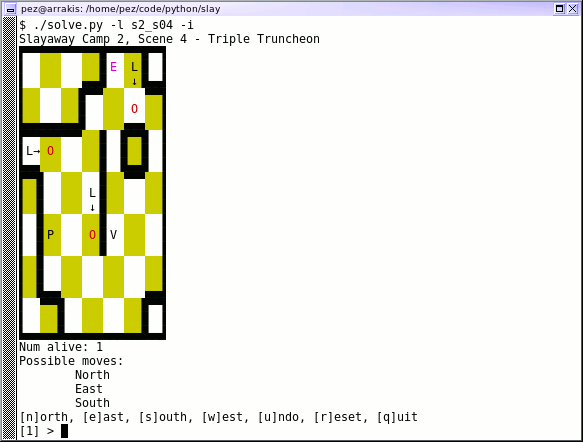
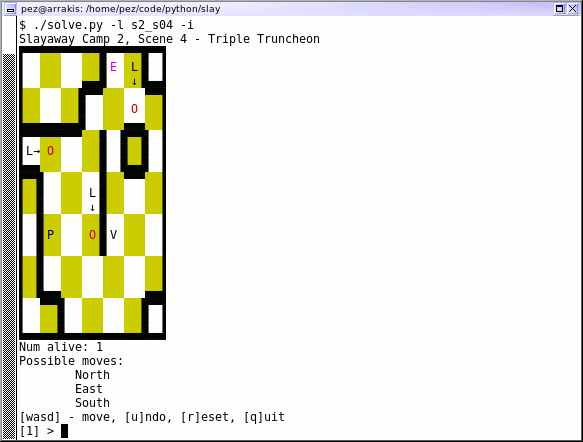
Change movement keys to wasd

Changed region(s): [[0.0309, 0.9118, 0.6175, 0.9706], [0.6484, 0.9118, 0.7101, 0.9706], [0.0, 0.0294, 0.0309, 0.1176]]

diff --git a/slaysolver/app.py b/slaysolver/app.py
@@ -124,10 +124,10 @@ DIR_T = {
     DIR_W: 'West',
 }
 DIR_CMD = {
-    'n': DIR_N,
+    'w': DIR_N,
     's': DIR_S,
-    'w': DIR_W,
-    'e': DIR_E,
+    'a': DIR_W,
+    'd': DIR_E,
 }
 def rev_dir(direction):
     return (direction+2)%4
@@ -1507,7 +1507,7 @@ class Game(object):
                 death_reason = None
 
             if full_control:
-                print('[n]orth, [e]ast, [s]outh, [w]est, [u]ndo, [r]eset, [q]uit')
+                print('[wasd] - move, [u]ndo, [r]eset, [q]uit')
             else:
                 print('[u]ndo, [r]eset, [q]uit')
             sys.stdout.write('[{}] > '.format(self.cur_steps + 1))

diff --git a/README.md b/README.md
@@ -93,8 +93,8 @@ Interactive Use
 ===============
 
 The interactive UI for this definitely takes a bit of getting used to.  Your
-available commands are just `n`, `e`, `w`, and `s` (for north, east, west, and
-south).  You can also undo moves with `u`, reset to the initial state with `r`,
+available commands are just `w`, `a`, `s`, and `d` (for north, west, south, and
+east).  You can also undo moves with `u`, reset to the initial state with `r`,
 and quit with `q`.
 
 The symbols used in the UI to indicate the map:
